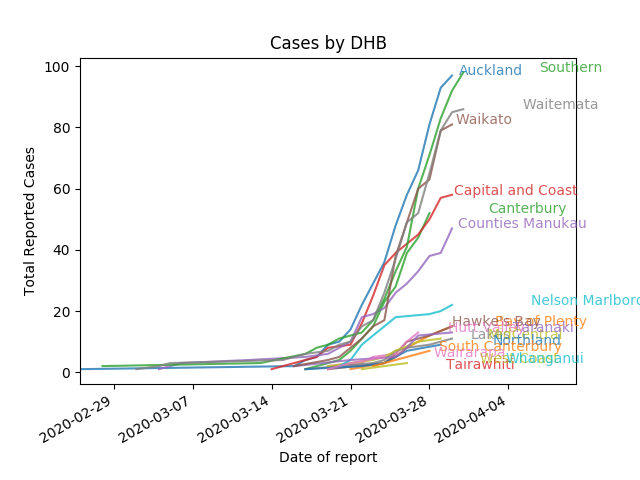
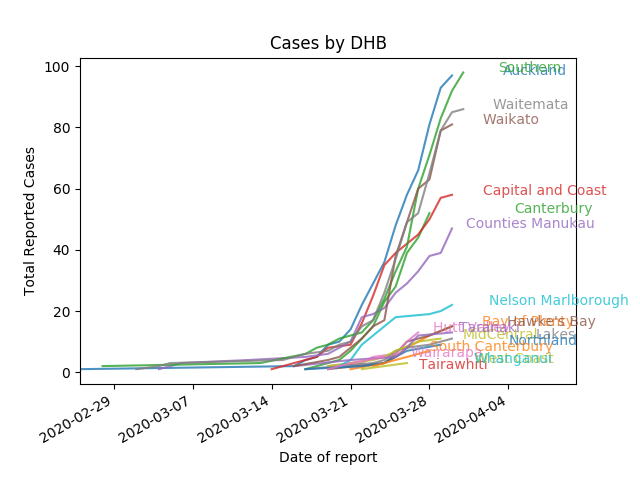
Slight graph improvements

diff --git a/NZModel/nz_data.py b/NZModel/nz_data.py
@@ -3,6 +3,9 @@ import numpy as np
 import pandas as pd
 import matplotlib.pyplot as plt
 
+from pandas.plotting import register_matplotlib_converters
+register_matplotlib_converters()
+
 #filename = "covid-19-confirmed-cases-28mar20.xlsx"
 #date_column = "Report Date"
 #header = 3
@@ -75,7 +78,9 @@ plt.ylabel("Total Cases")
 plt.title("NZ COIVD-19 Cases")
 plt.legend(["Total Cases", "Suspected Cases"])
 plt.savefig("NZCases.png")
+
 plt.gca().set_yscale('log')
+plt.title("NZ COIVD-19 Cases - Log Scale")
 plt.savefig("NZCasesLog.png")
 
 plt.figure()
@@ -112,10 +117,10 @@ for DHB in DHBs:
     series = pi[:, DHB].cumsum() / pop * 1e6
     ax = series.plot(label=DHB, alpha=0.8)
     line= ax.lines[-1]
-    plt.text(line._x[-1] + np.random.rand()*8, series[-1], DHB, color=line.get_color(), alpha=0.8)
+    plt.text(line._x[-1] + np.random.rand()*6, series[-1], DHB, color=line.get_color(), alpha=0.8)
     
 x = plt.xlim()
-plt.xlim((x[0], x[1] + 10))
+plt.xlim((x[0], x[1] + 15))
 plt.ylabel("Reported Cases per Capita [ppm]")
 plt.title("Cases by DHB")
 plt.savefig("NZByDHBPerCap.png")
